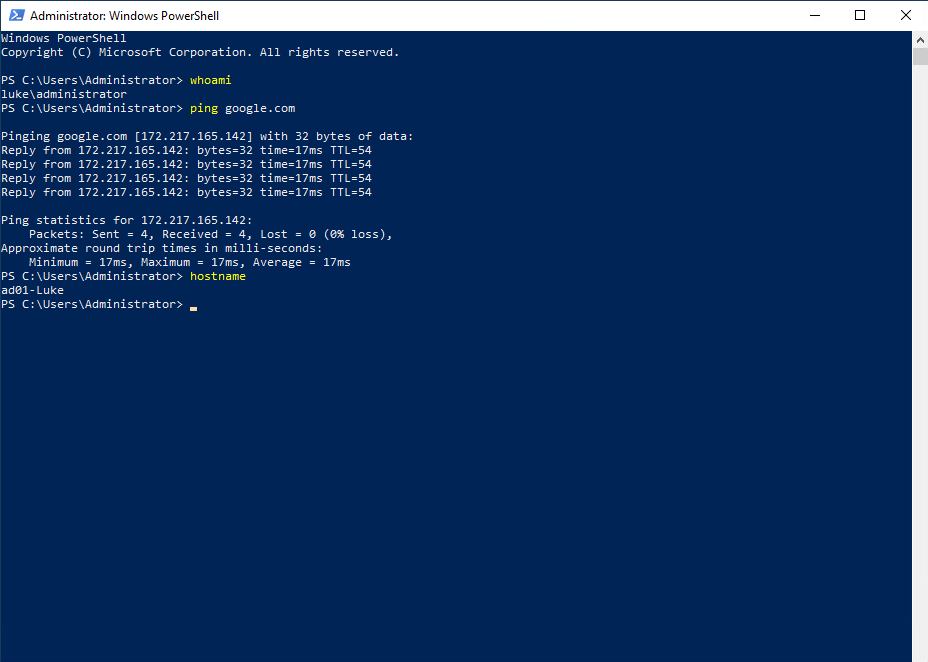
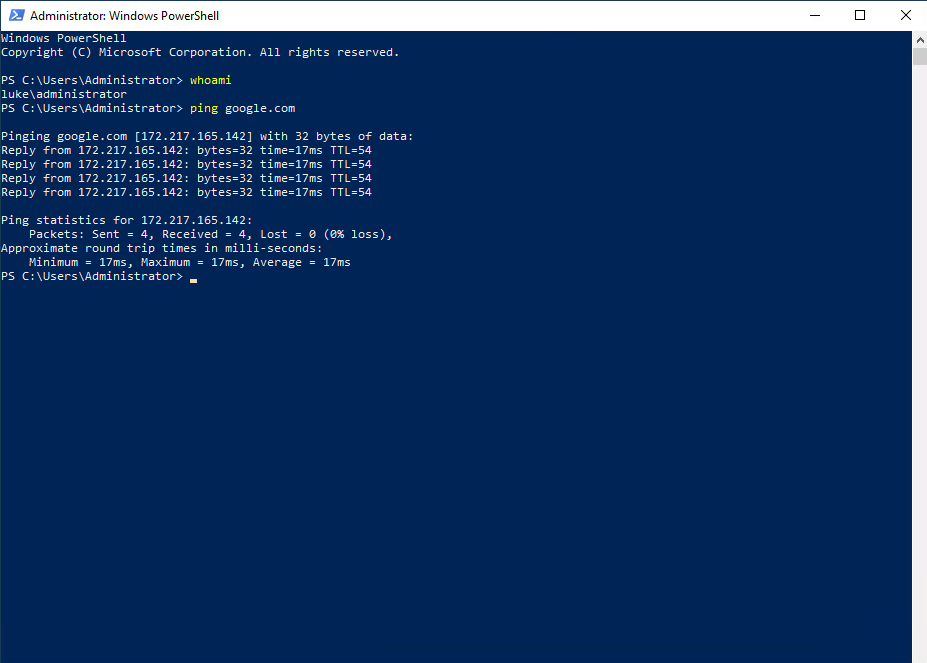
GITBOOK-73: change request with no subject merged in GitBook

diff --git a/course-sys-255/labs/windows-server-2019-adds-and-dns.md b/course-sys-255/labs/windows-server-2019-adds-and-dns.md
@@ -67,11 +67,13 @@ On vSphere, I configured ad01's network adapter to my internal LAN. I logged int
 
 Also, I changed the hostname to ad01-Luke and rebooted the server. After reboot, with all of the new settings, my local server manager dashboard looks like this:&#x20;
 
-<figure><img src="../../.gitbook/assets/image.png" alt=""><figcaption><p>local server manager dashboard</p></figcaption></figure>
+<figure><img src="../../.gitbook/assets/image (1).png" alt=""><figcaption><p>local server manager dashboard</p></figcaption></figure>
 
-Just to make sure all of my settings are correct, I did a quick test with Powershell:
+Just to make sure all of my settings are correct, I did a quick test with Powershell&#x20;
 
-<figure><img src="../../.gitbook/assets/image (3).png" alt=""><figcaption><p>Powershell test</p></figcaption></figure>
+(note: `whoami`should show "ad01-Luke\administrator", but I took this screenshot after completing the lab while logged in as the Domain Administrator, not as the Local Administrator.)
+
+<figure><img src="../../.gitbook/assets/image (4).png" alt=""><figcaption><p>Powershell test</p></figcaption></figure>
 
 ## Step 2
 
@@ -93,9 +95,9 @@ _The server manager displays an error: "A delegation for this DNS server cannot 
 
 ## Step 4&#x20;
 
-After rebooting the server, I log in as the Domain Administrator (credentials in Active Directory), instead of the local administrator (credentials in Windows OS)
+After rebooting the server, I log in as the Domain Administrator (credentials in Active Directory) instead of the local administrator (credentials in Windows OS)
 
-
+<figure><img src="../../.gitbook/assets/image.png" alt=""><figcaption><p>Log in page prompting for the Domain Administrator account. </p></figcaption></figure>
 
 
 

diff --git a/course-sys-255/labs/linux.md b/course-sys-255/labs/linux.md
@@ -49,7 +49,7 @@ After logging into dhcp01, I opened the [nmtui](../tools.md#nmtui) application a
 | ---------------- | ------------------- | ---------- | -------------- |
 | 10.0.5.3/24      | 10.0.5.2 (firewall) | 10.0.5.5   | luke.local     |
 
-<figure><img src="../../.gitbook/assets/image (5).png" alt=""><figcaption><p>Nmtui</p></figcaption></figure>
+<figure><img src="../../.gitbook/assets/image (5) (1).png" alt=""><figcaption><p>Nmtui</p></figcaption></figure>
 
 I added user "luke" to dhcp01-luke and made it part of the [wheel](../technical-terms.md#wheel) group.&#x20;
 
@@ -103,7 +103,7 @@ On the ssh session, I explore the dhcp01-luke directory with various commands in
 
 I created a directory under the home directory for my user called SYS-255 with the `mkdir` command. Using sudo, I install the "tree" package:`sudo yum install tree` . The tree is a program that provides a depth-indented listing of files from a recursive directory. The tree displays the list of files in the current directory without any arguments.&#x20;
 
-<figure><img src="../../.gitbook/assets/image (4).png" alt=""><figcaption><p>A tree on dhcp01-luke.</p></figcaption></figure>
+<figure><img src="../../.gitbook/assets/image (5).png" alt=""><figcaption><p>A tree on dhcp01-luke.</p></figcaption></figure>
 
 ### Deliverable 4
 

diff --git a/course-sys-255/tools.md b/course-sys-255/tools.md
@@ -24,7 +24,7 @@ A free commercial-grade network firewall software that was based on FreeBSD OS w
 
 A collection of virtualization products, used for creating and operating virtual machine infrastructure. A very cost-effective way to maintain your servers. For example, instead of having multiple physical servers, you could run multiple virtual servers on one machine. The virtual machines operate on a remote cloud server.     &#x20;
 
-<figure><img src="../.gitbook/assets/image (5) (1).png" alt=""><figcaption><p>vSphere HTML client </p></figcaption></figure>
+<figure><img src="../.gitbook/assets/image (5) (1) (1).png" alt=""><figcaption><p>vSphere HTML client </p></figcaption></figure>
 
 ## Shells
 
